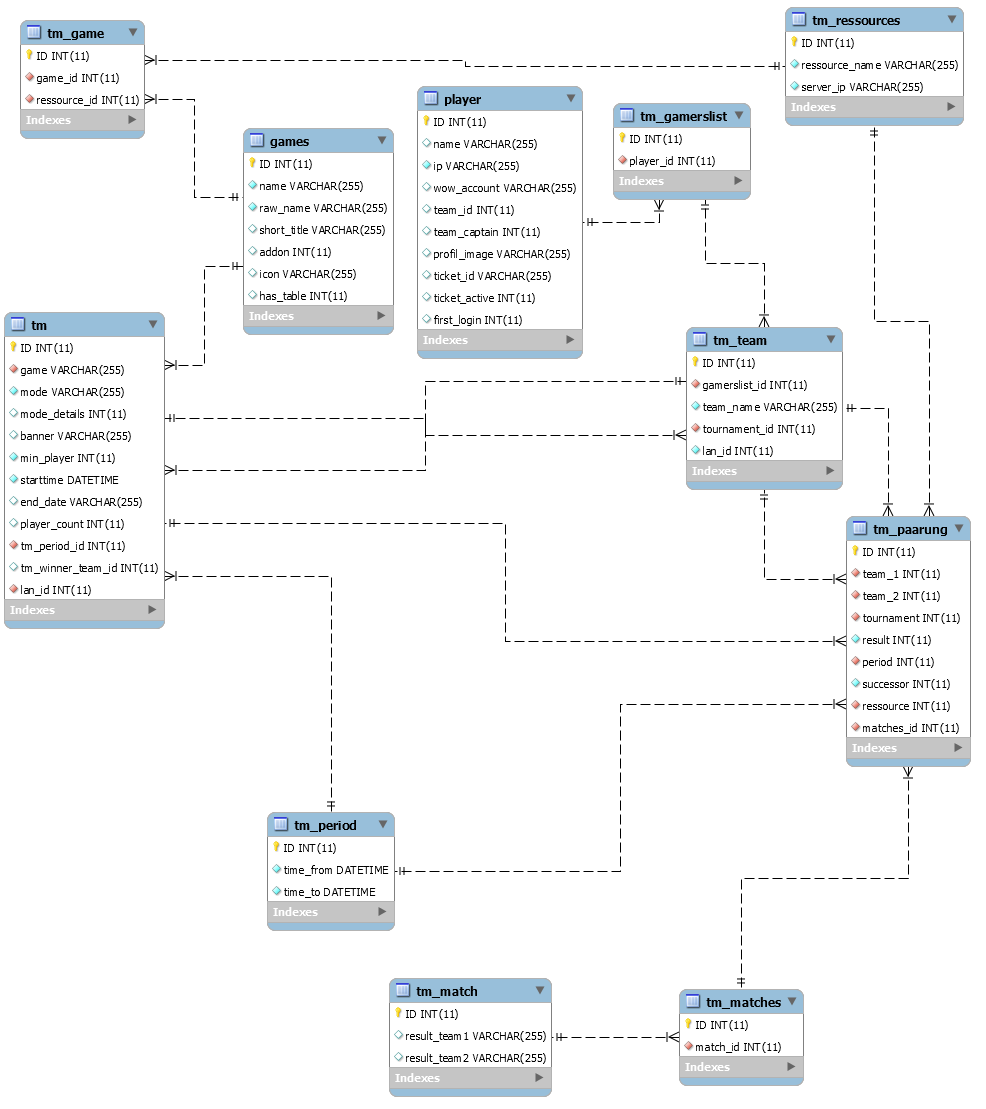
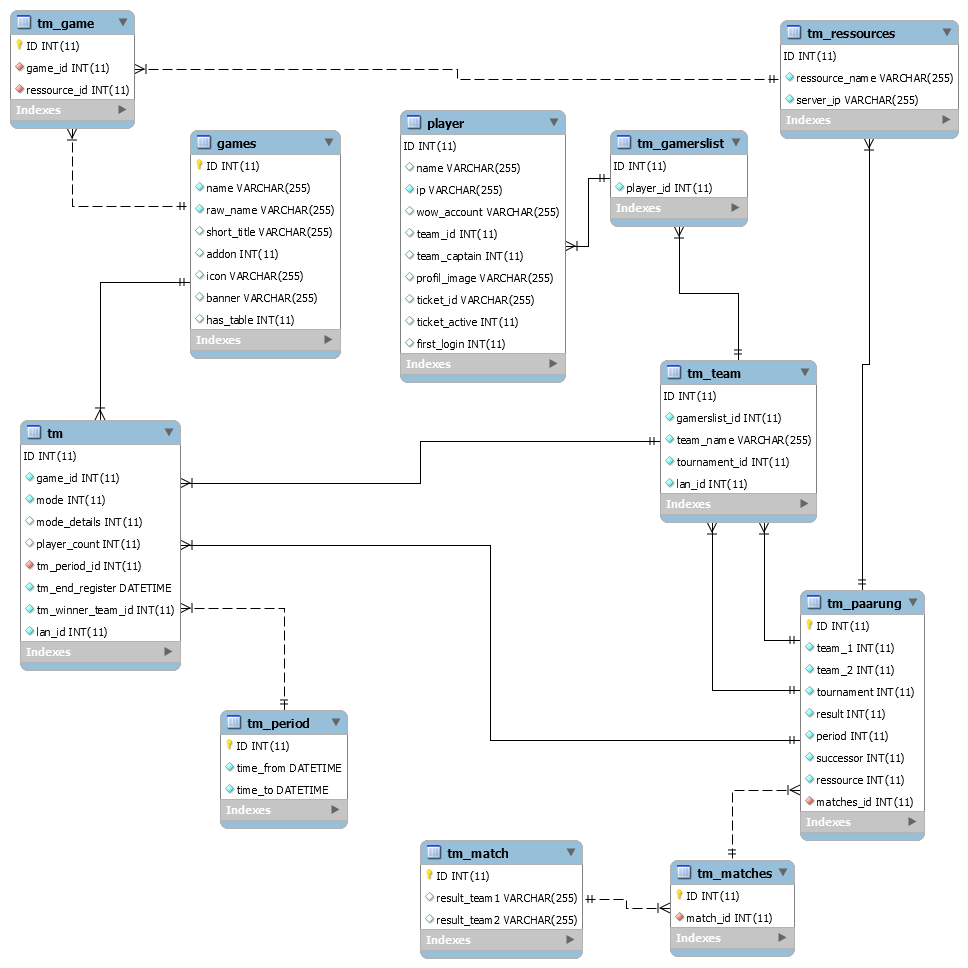
Create Tournament
+ added the ability to create a Tournament from vote
+ changed DB-Model
+ added end_register as DATETIME to DB-Model
+ removed unused columns
+ moved column banner from tm to games
+ fixed some issues in delete vote

diff --git a/template/admin/part/voted_tm_tpl.html b/template/admin/part/voted_tm_tpl.html
@@ -1,5 +1,5 @@
 <div>
-    --GAME_NAME--
+    <div data-tm-game="--GAME_ID--">--GAME_NAME--</div>
     --STARTTIME--
     --ENDTIME--
     --VOTES--

diff --git a/update/update.php b/update/update.php
@@ -75,10 +75,10 @@ $sql_statements = array(
 		array("tbl_name"=>"pref","tbl_old"=>"0","clm_name"=>"0","clm_old"=>"0","statement"=>"CREATE TABLE pref (ID INT(11) PRIMARY KEY AUTO_INCREMENT NOT NULL, user_id INT(11) NOT NULL, preferences VARCHAR(1024) CHARSET utf8mb4 NULL)"),
 
 		// Update 1.4
-		array("tbl_name"=>"tm","tbl_old"=>"0","clm_name"=>"0","clm_old"=>"0","statement"=>"CREATE TABLE ticket_id (ID INT(11) PRIMARY KEY AUTO_INCREMENT NOT NULL, ticket_id VARCHAR(255) CHARSET utf8mb4 NOT NULL)"),
+		array("tbl_name"=>"ticket_id","tbl_old"=>"0","clm_name"=>"0","clm_old"=>"0","statement"=>"CREATE TABLE ticket_id (ID INT(11) PRIMARY KEY AUTO_INCREMENT NOT NULL, ticket_id VARCHAR(255) CHARSET utf8mb4 NOT NULL)"),
 
 		// Update 1.5
-		array("tbl_name"=>"ticket_id","tbl_old"=>"0","clm_name"=>"0","clm_old"=>"0","statement"=>"CREATE TABLE tm (ID INT(11) PRIMARY KEY AUTO_INCREMENT NOT NULL, game VARCHAR(255) CHARSET utf8mb4 NOT NULL, mode INT(11) NOT NULL)"),
+		array("tbl_name"=>"tm","tbl_old"=>"0","clm_name"=>"0","clm_old"=>"0","statement"=>"CREATE TABLE tm (ID INT(11) PRIMARY KEY AUTO_INCREMENT NOT NULL, game_id INT(11) NOT NULL, mode INT(11) NOT NULL, mode_details INT(11) NULL, player_count INT (11) NULL, tm_period_id INT(11) NOT NULL, tm_end_register DATETIME NOT NULL, tm_winner_team_id INT(11) NOT NULL, lan_id INT(11) NOT NULL)"),
 		array("tbl_name"=>"tm_paarung","tbl_old"=>"0","clm_name"=>"0","clm_old"=>"0","statement"=>"CREATE TABLE tm_paarung (ID INT(11) PRIMARY KEY AUTO_INCREMENT NOT NULL, team_1 INT(11) NOT NULL, team_2 INT(11) NOT NULL, tournament INT(11) NOT NULL, result INT(11) NOT NULL, period INT(11) NOT NULL, successor INT(11) NOT NULL, ressource INT(11) NOT NULL, matches_id INT(11) NOT NULL)"),
 		array("tbl_name"=>"tm_period","tbl_old"=>"0","clm_name"=>"0","clm_old"=>"0","statement"=>"CREATE TABLE tm_period (ID INT(11) PRIMARY KEY AUTO_INCREMENT NOT NULL, time_from DATETIME NOT NULL, time_to DATETIME NOT NULL)"),
 		array("tbl_name"=>"tm_team","tbl_old"=>"0","clm_name"=>"0","clm_old"=>"0","statement"=>"CREATE TABLE tm_team (ID INT(11) PRIMARY KEY AUTO_INCREMENT NOT NULL, gamerslist_id INT(11) NOT NULL, team_name VARCHAR(255) CHARSET utf8mb4 NOT NULL, tournament_id INT(11) NOT NULL, lan_id INT(11) NOT NULL)"),
@@ -104,21 +104,12 @@ $sql_statements = array(
 			array("tbl_name"=>"games","tbl_old"=>"0","clm_name"=>"short_title","clm_old"=>"0","statement"=>"ALTER TABLE games ADD short_title VARCHAR(255) CHARSET utf8mb4 NULL AFTER raw_name"),
 
 			// Update 1.5
-			array("tbl_name"=>"tm","tbl_old"=>"0","clm_name"=>"mode_details","clm_old"=>"0","statement"=>"ALTER TABLE tm ADD mode_details INT(11) NULL AFTER mode"),
-			array("tbl_name"=>"tm","tbl_old"=>"0","clm_name"=>"mode","clm_old"=>"0","statement"=>"ALTER table tm ADD mode INT(11) NOT NULL AFTER game"),
-			array("tbl_name"=>"tm","tbl_old"=>"0","clm_name"=>"banner","clm_old"=>"0","statement"=>"ALTER table tm ADD banner VARCHAR(255) CHARSET utf8mb4 NULL AFTER mode"),
-			array("tbl_name"=>"tm","tbl_old"=>"0","clm_name"=>"min_player","clm_old"=>"0","statement"=>"ALTER TABLE tm ADD min_player INT(11) NOT NULL AFTER banner"),
-			array("tbl_name"=>"tm","tbl_old"=>"0","clm_name"=>"starttime","clm_old"=>"0","statement"=>"ALTER TABLE tm ADD starttime DATETIME NOT NULL AFTER min_player"),
-			array("tbl_name"=>"tm","tbl_old"=>"0","clm_name"=>"end_date","clm_old"=>"0","statement"=>"ALTER TABLE tm ADD end_date VARCHAR(255) CHARSET utf8mb4 NULL AFTER starttime"),
-			array("tbl_name"=>"tm","tbl_old"=>"0","clm_name"=>"player_count","clm_old"=>"0","statement"=>"ALTER TABLE tm ADD player_count INT(11) NULL AFTER min_player"),
 			array("tbl_name"=>"games","tbl_old"=>"0","clm_name"=>"addon","clm_old"=>"0","statement"=>"ALTER TABLE games ADD addon INT(11) NULL AFTER short_title"),
-			array("tbl_name"=>"tm","tbl_old"=>"0","clm_name"=>"lan_id","clm_old"=>"0","statement"=>"ALTER TABLE tm ADD lan_id INT(11) NOT NULL AFTER tm_winner_team_id"),
+			array("tbl_name"=>"games","tbl_old"=>"0","clm_name"=>"banner","clm_old"=>"0","statement"=>"ALTER table games ADD banner VARCHAR(255) CHARSET utf8mb4 NULL AFTER icon"),
 
 		## RENAME COLUMN
 			// Update 1.5
 			array("tbl_name"=>"ac","tbl_old"=>"0","clm_name"=>"ac_category","clm_old"=>"ac_categorie","statement"=>"ALTER TABLE ac CHANGE `ac_categorie` `ac_category` INT(11)"),
-			array("tbl_name"=>"tm","tbl_old"=>"0","clm_name"=>"tm_period_id","clm_old"=>"starttime","statement"=>"ALTER TABLE tm CHANGE `starttime` `tm_period_id` INT(11) NOT NULL"),
-			array("tbl_name"=>"tm","tbl_old"=>"0","clm_name"=>"tm_winner_team_id","clm_old"=>"end_date","statement"=>"ALTER TABLE tm CHANGE `end_date` `tm_winner_team_id` INT(11) NULL"),
 			array("tbl_name"=>"tm_vote","tbl_old"=>"0","clm_name"=>"vote_count","clm_old"=>"player_id","statement"=>"ALTER TABLE tm_vote CHANGE `player_id` `vote_count` INT(11) NOT NULL"),
 		
 		## MODIFY COLUMN
@@ -134,10 +125,10 @@ $sql_statements = array(
 	
 	### - DELETE STATEMENTS - ###
 		## DELETE TABLE
-		// Beispiel: array("tbl_name"=>"0","tbl_old"=>"table_to_delete","clm_name"=>"0","clm_old"=>"0","statement"=>"DROP TABLE table_to_delete")
+		// Beispiel: array("tbl_name"=>"0","tbl_old"=>"table_to_delete","clm_name"=>"0","clm_old"=>"0","statement"=>"DROP TABLE table_to_delete"),
 
 		## DELETE COLUMN
-		// Beispiel: array("tbl_name"=>"0","tbl_old"=>"0","clm_name"=>"0","clm_old"=>"column_to_delete","statement"=>"DELETE column_to_delete FROM table");
+		// Beispiel: array("tbl_name"=>"0","tbl_old"=>"0","clm_name"=>"0","clm_old"=>"column_to_delete","statement"=>"ALTER TABLE table DROP COLUMN column_to_delete"),
 );
 
 transformArray($con,$sql_statements);

diff --git a/admin/tm/create/create_tm.php b/admin/tm/create/create_tm.php
@@ -1,5 +1,7 @@
 <?php
-
+/* Notizen
+        - Vote nach Start des Turniers bereinigen!
+*/
 include(dirname(__FILE__,4) . "/include/init/constant.php");
 include(dirname(__FILE__,3) . "/include/admin_func.php");
 include(INIT . "get_parameters.php");
@@ -8,7 +10,53 @@ include(CL . "message_class.php");
 
 $message = new message();
 
-if (isset($_REQUEST["game"]))
+if(isset($_REQUEST["game_id"]))
+{
+    if(isset($_REQUEST["vote_id"]))
+    {
+        
+        $vote_id = $_REQUEST["vote_id"];
+        $game_id = $_REQUEST["game_id"];
+        $lan_id = $_REQUEST["lan_id"];
+        $tm_from = $_REQUEST["time_from"];
+        $tm_to = $_REQUEST["time_to"];
+        $mode = $_REQUEST["mode"];
+        $mode_details = $_REQUEST["mode_details"];
+        $end_register = $_REQUEST["end_register"];
+
+        $sql = "INSERT INTO tm_period (time_from,time_to) VALUES ('$tm_from','$tm_to')";
+        if(mysqli_query($con,$sql))
+        {
+            $tm_period_id = getTournamentPeriodId($con);
+            $game_name = getGameInfoByID($con,$game_id);
+            $game_name = array_shift($game_name);
+            $game_name = $game_name["name"];
+            
+            $sql = "INSERT INTO tm (game,mode,mode_details,tm_period_id,tm_end_register,lan_id) VALUES ('$game_name','$mode','$mode_details','$tm_period_id','$end_register','$lan_id')";
+            if(mysqli_query($con,$sql))
+            {
+                $message->getMessageCode("SUC_CREATE_TM_FROM_VOTE");
+                echo buildJSONOutput($message->displayMessage());
+            } else {
+                $message->getMessageCode("ERR_ADMIN_DB");
+                echo buildJSONOutput($message->displayMessage());
+            }
+
+        } else {
+            $message->getMessageCode("ERR_ADMIN_DB");
+            echo buildJSONOutput($message->displayMessage());
+        }
+
+    } else {
+        $message->getMessageCode("ERR_ADMIN_EMPTY_PARAM");
+        echo buildJSONOutput($message->displayMessage());
+    }
+} else {
+    $message->getMessageCode("ERR_ADMIN_EMPTY_PARAM");
+    echo buildJSONOutput($message->displayMessage());
+}
+
+/*if (isset($_REQUEST["game"]))
 {
     if (empty($_REQUEST["game"]))
     {
@@ -90,6 +138,6 @@ if (isset($_REQUEST["game"]))
 } else {
     $message->getMessageCode("ERR_ADMIN_NO_GAME_SELECTED");
     echo buildJSONOutput($message->displayMessage());
-}
+}*/
 
 ?>

diff --git a/admin/tm/delete/delete_vote.php b/admin/tm/delete/delete_vote.php
@@ -5,6 +5,8 @@
     include(INC . "connect.php");
     include(INIT . "get_parameters.php");
 
+    $message = new message();
+
     if(isset($_REQUEST["vote_id"]))
     {
         $vote_id = $_REQUEST["vote_id"];
@@ -15,17 +17,17 @@
             if(mysqli_query($con,$sql))
             {
                 $message->getMessageCode("SUC_ADMIN_DELETE_VOTE");
-                echo buildJSONOutput(array("message"=>displayMessage()));
+                echo buildJSONOutput($message->displayMessage());
             } else {
                 $message->getMessageCode("ERR_ADMIN_DB");
-                echo buildJSONOutput(array("message"=>displayMessage()));
+                echo buildJSONOutput($message->displayMessage());
             }
         } else {
             $message->getMessageCode("ERR_ADMIN_DB");
-            echo buildJSONOutput(array("message"=>displayMessage()));
+            echo buildJSONOutput($message->displayMessage());
         }
     } else {
         $message->getMessageCode("ERR_ADMIN_EMPTY_PARAM");
-        echo buildJSONOutput(array("message"=>displayMessage()));
+        echo buildJSONOutput($message->displayMessage());
     }
 ?>

diff --git a/admin/include/admin_func.php b/admin/include/admin_func.php
@@ -405,9 +405,9 @@ function displayVotedTournaments($con)
 
 		if(!isset($output))
 		{
-			$output = str_replace(array("--GAME_NAME--","--STARTTIME--","--ENDTIME--","--VOTES--","--VOTE_ID--"),array($game_name["name"],$tournament["starttime"],$tournament["endtime"],$tournament["vote_count"],$tournament["ID"]),$part);
+			$output = str_replace(array("--GAME_ID--","--GAME_NAME--","--STARTTIME--","--ENDTIME--","--VOTES--","--VOTE_ID--"),array($tournmanet["game_id"],$game_name["name"],$tournament["starttime"],$tournament["endtime"],$tournament["vote_count"],$tournament["ID"]),$part);
 		} else {
-			$output .= str_replace(array("--GAME_NAME--","--STARTTIME--","--ENDTIME--","--VOTES--","--VOTE_ID--"),array($game_name["name"],$tournament["starttime"],$tournament["endtime"],$tournament["vote_count"],$tournament["ID"]),$part);
+			$output .= str_replace(array("--GAME_ID--","--GAME_NAME--","--STARTTIME--","--ENDTIME--","--VOTES--","--VOTE_ID--"),array($tournament["game_id"],$game_name["name"],$tournament["starttime"],$tournament["endtime"],$tournament["vote_count"],$tournament["ID"]),$part);
 		}
 	}
 

diff --git a/include/init/get_parameters.php b/include/init/get_parameters.php
@@ -904,4 +904,15 @@ function getVotedGamesByPlayerId($con,$player_id)
 	return $votedGames;
 }
 
+function getTournamentPeriodId($con)
+{
+	$result = mysqli_query($con,"SELECT ID FROM tm_period ORDER BY ID DESC LIMIT 1");
+	while($row=mysqli_fetch_array($result))
+	{
+		$tm_period_id = $row["ID"];
+	}
+
+	return $tm_period_id;
+}
+
 ?>
